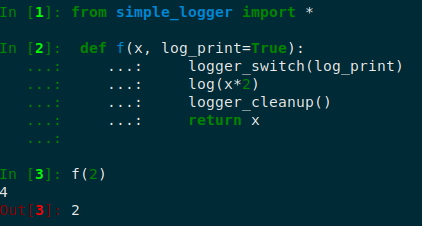
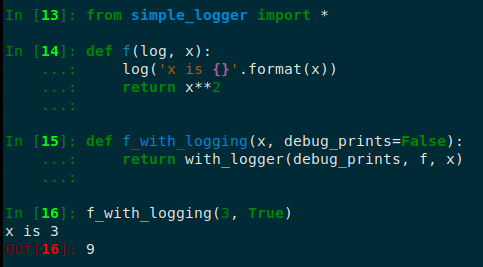
Fixed code so that logging with nested functions works properly, by defining decorator.

diff --git a/simple_logger.py b/simple_logger.py
@@ -3,15 +3,9 @@ import logging
 # Specify format for the logging (as simple as possible, to mimic normal prints).
 logging.basicConfig(level=logging.DEBUG, format='%(message)s')
 
-# Create global logger. We will always use the same logger.
-global logger
-logger = logging.getLogger()
-# Create global boolean which will record the previous state of the logger, so that we can revert back to it. 
-global logger_bool_record
-logger_bool_record = True
 
-# The main function of this module is now defined. It basically acts as a printing function, the advantage being that you can deactivate the prints by disabling the logger.
-def log(*args, separator=' ', logger=logger):
+# The following function will be used to construct a log (printing) function which utilizes a specific logger from the Logger class of the logging module.
+def make_log(*args, separator=' ', logger):
     '''
     Logs args into the console using logger, separating them by separator.
     A (global) logger must be defined externally.
@@ -19,25 +13,43 @@ def log(*args, separator=' ', logger=logger):
     str_args = [str(arg) for arg in args]
     string = separator.join(str_args)
     logger.debug(string)
+    return
 
-# We need a simple a function which activates or not the logger depending on its argument.
-# This function will usually be called at the start of the function where we (may) want to use the logger.
-def logger_switch(printing: bool):
+# We now want function decorator which will create a local logger and switch it on or off as desired, reverting the logger to its original state after calling the function to decorate.
+# This allows logging in nested function smoothly.
+def with_logger(printing: bool, func, *args, **kargs):
     '''
-    Disables the logger in printing = False. Enables it if printing = True.
-    Records the original state of the logger in the global logger_bool_record.
+    Function decorator creating a local logger and switching it on if printing = True and off otherwise.
+    func must have an arg log at the first position, which we will set equal to a function log_func created locally.
+    *args and **kargs can contain all the arguments of func.
+    ----
+    Example:
+    > def f(log, x): 
+        log('x is {}'.format(x))
+        return x**2
+    > def f_with_logging(x, debug_prints=False):
+        return with_logger(debug_prints, f, x)
+    > f_with_logging(3, True)
+        > 'x is 3'
+        Out: 9
+    > f_with_logging(3)
+        Out: 9
     '''
-    logger_bool_record = logger.disabled
+    # Create logger variable, and switch it on/off
+    logger = logging.getLogger()
+    # The name logger will always refer to the same (root) logger object, so other functions will use the same (root) logger
+    # So we store the original logger state to restore it afterwards
+    logger_og_state = logger.disabled
     if printing:
         logger.disabled = False
     else:
         logger.disabled = True 
-
-# Finally, we create a cleanup function, which returns the logger to the state it was in before running logger_switch.
-# This is particularly important when we want to use the logger in nested functions, since its state in the inner function will affect its state in the outer function.
-def logger_cleanup():
-    '''
-    Reverts the logger back to its original state, before logger_switch was called.
-    '''
-    logger.disabled = logger_bool_record
-
+    # Now that a logger exists, we can define a log function to use in the function to decorate
+    log_func = lambda *args_: make_log(*args_, separator=' ', logger=logger)
+    # Run function to decorate
+    args = (log_func,) + args # Adds log_func to beginning of args
+    result = func(*args, **kargs)
+    #result = func(*args, **kargs, log=log_func)
+    # Restore logger state
+    logger.disabled = logger_og_state
+    return result

diff --git a/.ipynb_checkpoints/simple_logger-checkpoint.py b/.ipynb_checkpoints/simple_logger-checkpoint.py
@@ -1,0 +1,43 @@
+import logging
+
+# Specify format for the logging (as simple as possible, to mimic normal prints).
+logging.basicConfig(level=logging.DEBUG, format='%(message)s')
+
+# Create global logger. We will always use the same logger.
+global logger
+logger = logging.getLogger()
+# Create global boolean which will record the previous state of the logger, so that we can revert back to it. 
+global logger_bool_record
+logger_bool_record = True
+
+# The main function of this module is now defined. It basically acts as a printing function, the advantage being that you can deactivate the prints by disabling the logger.
+def log(*args, separator=' ', logger=logger):
+    '''
+    Logs args into the console using logger, separating them by separator.
+    A (global) logger must be defined externally.
+    '''
+    str_args = [str(arg) for arg in args]
+    string = separator.join(str_args)
+    logger.debug(string)
+
+# We need a simple a function which activates or not the logger depending on its argument.
+# This function will usually be called at the start of the function where we (may) want to use the logger.
+def logger_switch(printing: bool):
+    '''
+    Disables the logger in printing = False. Enables it if printing = True.
+    Records the original state of the logger in the global logger_bool_record.
+    '''
+    logger_bool_record = logger.disabled
+    if printing:
+        logger.disabled = False
+    else:
+        logger.disabled = True 
+
+# Finally, we create a cleanup function, which returns the logger to the state it was in before running logger_switch.
+# This is particularly important when we want to use the logger in nested functions, since its state in the inner function will affect its state in the outer function.
+def logger_cleanup():
+    '''
+    Reverts the logger back to its original state, before logger_switch was called.
+    '''
+    logger.disabled = logger_bool_record
+
